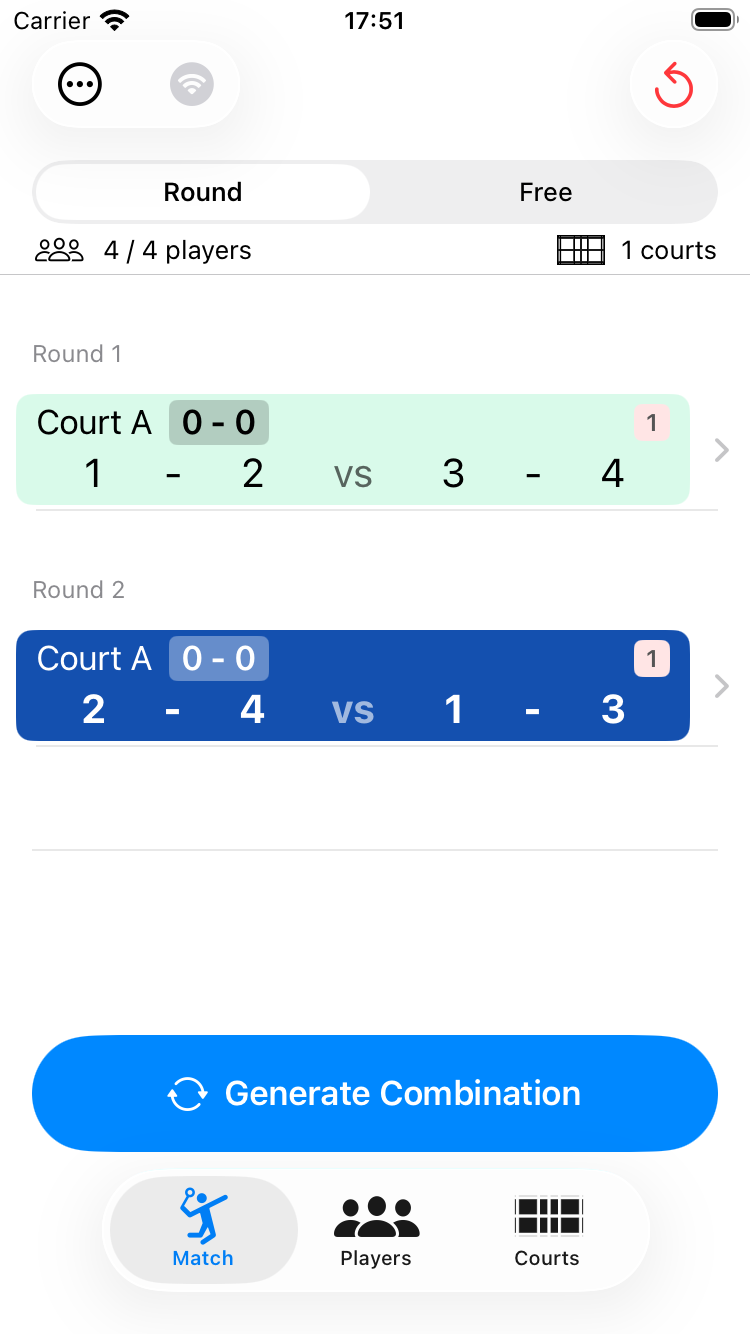
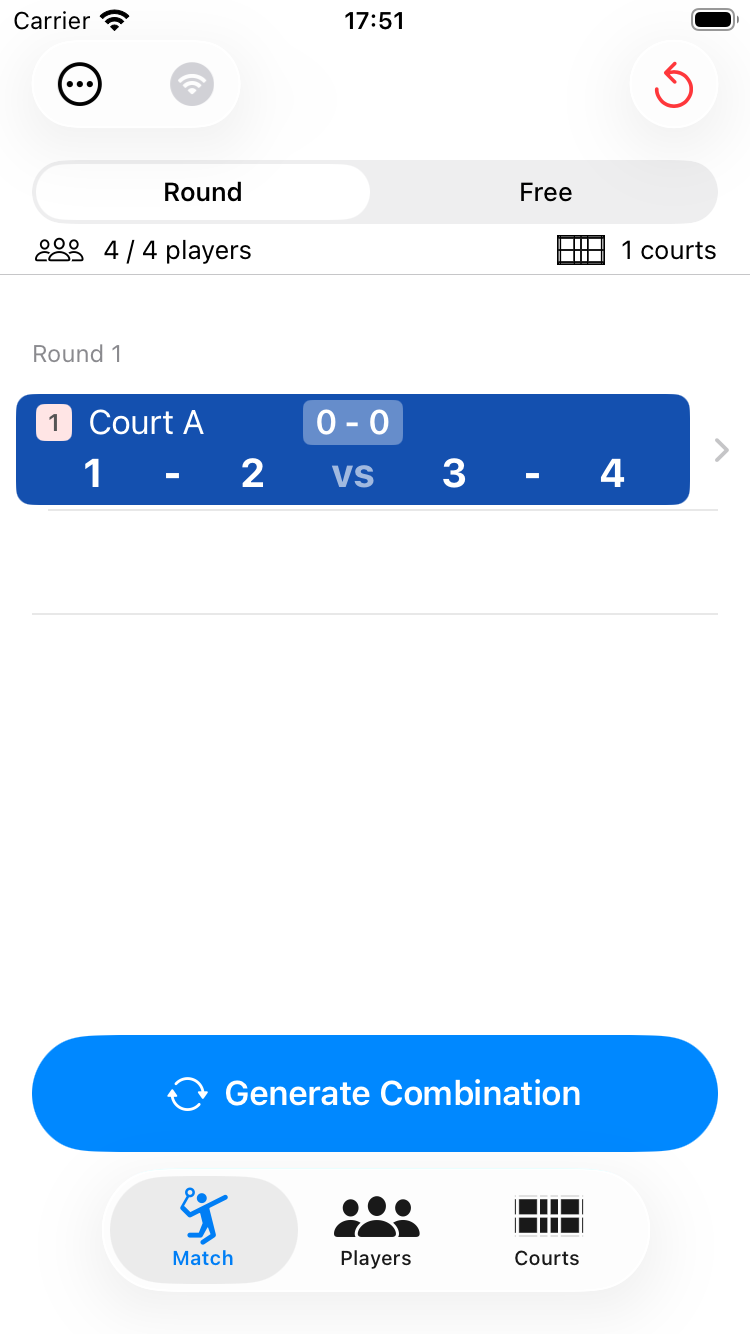
1.22.0: 試合タブ・コートタブの変更をヘルプに反映
バージョンバッジ・更新内容を1.22.0に更新。courts-tab.htmlはEditCourtView
廃止に伴う記述に全面改訂し、courts-list.png・game-round-main.pngのスクリー
ンショットも新レイアウトのものに差し替え。

Changed region(s): [[0.0, 0.2766, 0.92, 0.3996], [0.0, 0.4303, 0.92, 0.5532], [0.9507, 0.4918, 0.9813, 0.5225]]

diff --git a/courts-tab.html b/courts-tab.html
@@ -25,8 +25,8 @@
 <ul>
   <li><a href="#court-count">1. コート数を増減する</a></li>
   <li><a href="#court-name">2. コート名の表記を切り替える</a></li>
-  <li><a href="#court-config">3. コートを編集する</a></li>
-  <li><a href="#level-fixed-free">4. Level Fixed と Level Free</a></li>
+  <li><a href="#court-level">3. コートのレベルを設定する</a></li>
+  <li><a href="#court-config">4. コートの設定（Active・Lock Level）を変更する</a></li>
 </ul>
 </nav>
 
@@ -37,22 +37,15 @@
 <h2 id="court-name">2. コート名の表記を切り替える</h2>
 <p>画面下部の <code>A/1</code> ボタンをタップすると、コート名をアルファベット（A・B・C…）と数字（1・2・3…）で切り替えられます。</p>
 
-<h2 id="court-config">3. コートを編集する</h2>
-<p>コートの行をタップすると編集画面が開きます。</p>
-<ul>
-  <li><strong>Active</strong>（アクティブ） — オフにするとそのコートは組み合わせ生成の対象外になります</li>
-  <li><strong>Level</strong>（レベル） — コートのレベルを設定（1・2・3・1&amp;2）</li>
-  <li><strong>Lock Level</strong>（レベル固定） — オンにすると、設定したレベルのプレイヤーのみ割り当てられます</li>
-</ul>
-<div class="ss"><img src="images/court-edit-main.png" alt="コート編集画面"></div>
+<h2 id="court-level">3. コートのレベルを設定する</h2>
+<p>各コートの左端にあるレベルバッジをタップするたびに 1→2→3→1&amp;2→1 と切り替わります。レベル分けの詳しい使い方は「高度な使い方」をご覧ください。</p>
 
-<h2 id="level-fixed-free">4. Level Fixed と Level Free</h2>
-<p>コート一覧では各コートに <code>Level Fixed</code>（レベル固定）または <code>Level Free</code>（レベルフリー）と表示されます。</p>
+<h2 id="court-config">4. コートの設定（Active・Lock Level）を変更する</h2>
+<p>各コートの行の右側に、次の2つの設定がトグルとして直接表示されます。タップして詳細画面を開く必要はありません。</p>
 <ul>
-  <li><strong>Level Fixed</strong>（レベル固定／Lock Level がオン）— 設定したレベルのプレイヤーのみ割り当て</li>
-  <li><strong>Level Free</strong>（レベルフリー／Lock Level がオフ）— レベルに関係なく割り当て</li>
+  <li><strong>Active</strong>（アクティブ） — オフにするとそのコートは組み合わせ生成の対象外になります。オフのコートは行全体がグレー表示になります</li>
+  <li><strong>Lock Level</strong>（レベル固定） — オンにすると、設定したレベルのプレイヤーのみそのコートに割り当てられます。オフにすると、レベルに関係なく割り当てられます</li>
 </ul>
-<div class="tip">💡 レベル分けの詳しい使い方は「高度な使い方」をご覧ください。</div>
 
 </body>
 </html>

diff --git a/home.html b/home.html
@@ -18,7 +18,7 @@
 <body>
 
 <h1>くみあぷ（PairGen）</h1>
-<p><span class="badge">v1.21.0</span></p>
+<p><span class="badge">v1.22.0</span></p>
 <div class="note">⚠ This help is available in Japanese only. Please use your browser's auto-translate feature.</div>
 <p>PairGen はバドミントンなどのダブルス競技向けに、組み合わせを自動生成する iOS アプリです（Android 版は準備中）。参加人数とコート数を設定するだけで、重複を最小限に抑えた組み合わせをすぐに生成できます。</p>
 
@@ -58,11 +58,10 @@
   <li>【試験的】試合タブからサーバーを起動し、同じWi-Fiに接続した他の携帯・タブレットのWebブラウザで組み合わせ・プレイヤー一覧の閲覧や一部操作が可能</li>
 </ul>
 
-<h2>バージョン 1.21.0 更新内容</h2>
+<h2>バージョン 1.22.0 更新内容</h2>
 <ul>
-  <li>複数プレイヤーが同時に休憩している間、他のプレイヤーが先に出場すると、休憩中のプレイヤーの優先度が誤って下がってしまう不具合を修正</li>
-  <li>プレイヤー名入力欄の音声入力ボタンが、初回利用時にマイクの使用許可を求められず、常に無効のままになっていた不具合を修正</li>
-  <li>「Save」ボタンを押さなくても、得点入力やバックグラウンド移行などの操作だけでメンバーデータベースが自動的に上書き保存されてしまっていた不具合を修正</li>
+  <li>試合タブの組み合わせ表示のレイアウトを変更。レベルバッジをコート名の左に表示し、勝敗スコアを行内で中央揃えに変更</li>
+  <li>コートタブの各行に「Active」（出場）・「Lock Level」（レベル固定）の設定を直接表示し、タップして詳細画面を開かなくても変更できるように変更。「Active」がオフのコートは行全体をグレー表示</li>
 </ul>
 
 <h2>フィードバック</h2>

diff --git a/index.html b/index.html
@@ -18,7 +18,7 @@
 <body>
 
 <h1>くみあぷ（PairGen）</h1>
-<p><span class="badge">v1.21.0</span></p>
+<p><span class="badge">v1.22.0</span></p>
 <div class="note">⚠ This help is available in Japanese only. Please use your browser's auto-translate feature.</div>
 <p>PairGen はバドミントンなどのダブルス競技向けに、組み合わせを自動生成する iOS アプリです（Android 版は準備中）。参加人数とコート数を設定するだけで、重複を最小限に抑えた組み合わせをすぐに生成できます。</p>
 
@@ -58,11 +58,10 @@
   <li>【試験的】試合タブからサーバーを起動し、同じWi-Fiに接続した他の携帯・タブレットのWebブラウザで組み合わせ・プレイヤー一覧の閲覧や一部操作が可能</li>
 </ul>
 
-<h2>バージョン 1.21.0 更新内容</h2>
+<h2>バージョン 1.22.0 更新内容</h2>
 <ul>
-  <li>複数プレイヤーが同時に休憩している間、他のプレイヤーが先に出場すると、休憩中のプレイヤーの優先度が誤って下がってしまう不具合を修正</li>
-  <li>プレイヤー名入力欄の音声入力ボタンが、初回利用時にマイクの使用許可を求められず、常に無効のままになっていた不具合を修正</li>
-  <li>「Save」ボタンを押さなくても、得点入力やバックグラウンド移行などの操作だけでメンバーデータベースが自動的に上書き保存されてしまっていた不具合を修正</li>
+  <li>試合タブの組み合わせ表示のレイアウトを変更。レベルバッジをコート名の左に表示し、勝敗スコアを行内で中央揃えに変更</li>
+  <li>コートタブの各行に「Active」（出場）・「Lock Level」（レベル固定）の設定を直接表示し、タップして詳細画面を開かなくても変更できるように変更。「Active」がオフのコートは行全体をグレー表示</li>
 </ul>
 
 <h2>フィードバック</h2>

diff --git a/update-history.html b/update-history.html
@@ -16,6 +16,12 @@
 <p class="back-link"><a href="home.html">← ホームに戻る</a></p>
 <h1>更新履歴</h1>
 
+<h2>v1.22.0</h2>
+<ul>
+  <li>試合タブの組み合わせ表示のレイアウトを変更。レベルバッジをコート名の左に表示し、勝敗スコアを行内で中央揃えに変更</li>
+  <li>コートタブの各行に「Active」（出場）・「Lock Level」（レベル固定）の設定を直接表示し、タップして詳細画面を開かなくても変更できるように変更。「Active」がオフのコートは行全体をグレー表示</li>
+</ul>
+
 <h2>v1.21.0</h2>
 <ul>
   <li>複数プレイヤーが同時に休憩している間、他のプレイヤーが先に出場すると、休憩中のプレイヤーの優先度が誤って下がってしまう不具合を修正</li>
